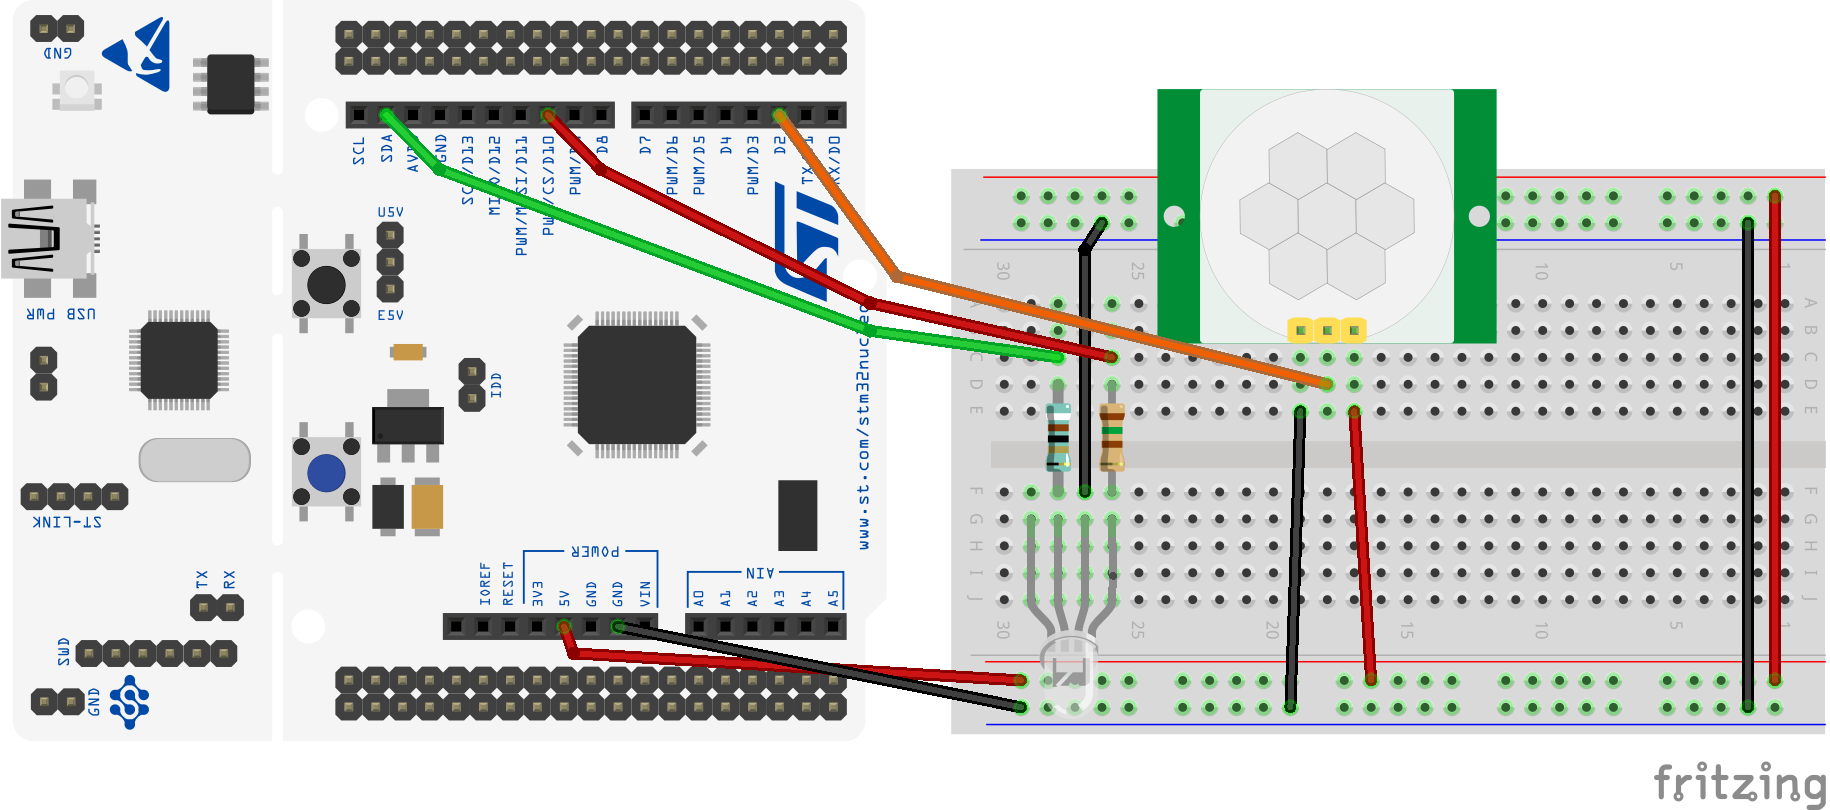
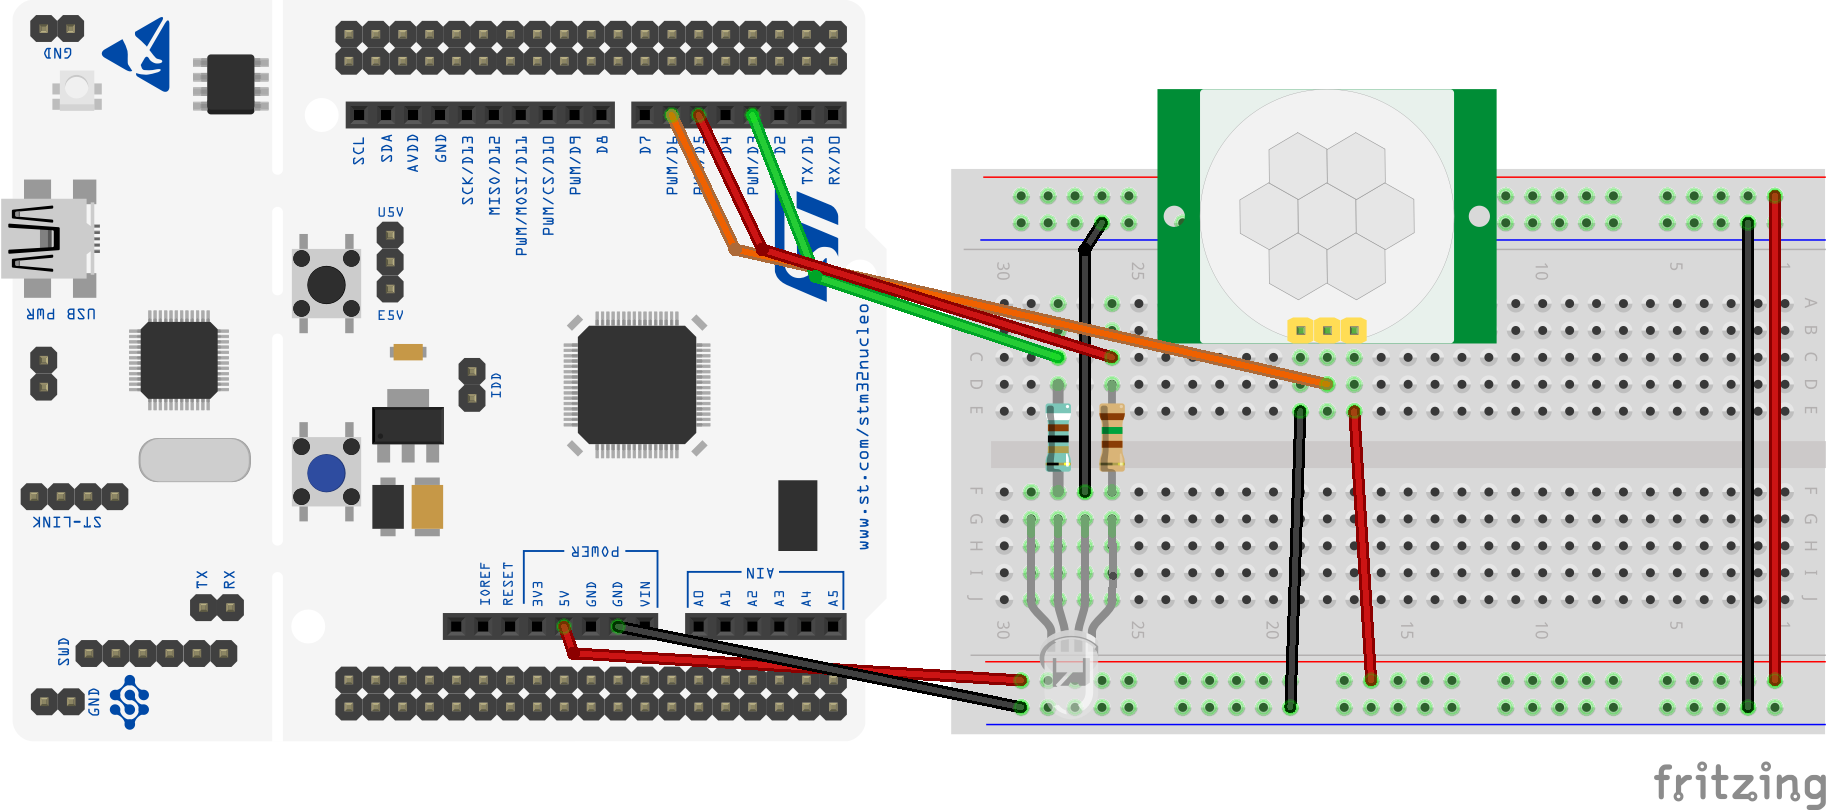
Update LED connections

diff --git a/README.md b/README.md
@@ -10,7 +10,7 @@ El sistema usa una FSM para gestionar los diferentes estados del sistema y el ha
 
 Puede generar tantos detectores de presencia como desee creando una nueva FSM y asignando los identificadores periféricos correspondientes al sistema.
 
-Puede descargar los código fuente de este proyecto en el siguiente [enlace](https://github.com/ieinDieUpm/fsm_automatic_door).
+Puede descargar los código fuente de este proyecto en el siguiente [enlace](https://github.com/ieinDieUpm/fsm_automatic_door/tree/hal_version).
 
 ## Implementación HW
 
@@ -52,30 +52,30 @@ Hay 2 LEDs para indicar el estado del sistema. Un **LED verde** (`led_opening`) 
 
 Ambos LEDs parpadean con un intervalo de interrupción diferente. Cada uno es controlado por un temporizador diferente para generar interrupciones.
 
-| Parameter     | Value               |
-| ------------- | ------------------- |
-| Variable name | led_opening         |
-| Pin           | PB6 (D10 on Nucleo) |
-| Mode          | Output              |
-| Pull up/ down | No push no pull     |
-| Timer         | TIM3                |
-| Interrupt     | TIM3_IRQHandler()   |
-| Time interval | 500 ms              |
-| Priority      | 2                   |
-| Subpriority   | 0                   |
+| Parameter     | Value              |
+| ------------- | ------------------ |
+| Variable name | led_opening        |
+| Pin           | PB3 (D3 on Nucleo) |
+| Mode          | Output             |
+| Pull up/ down | No push no pull    |
+| Timer         | TIM3               |
+| Interrupt     | TIM3_IRQHandler()  |
+| Time interval | 500 ms             |
+| Priority      | 2                  |
+| Subpriority   | 0                  |
 
 
-| Parameter     | Value               |
-| ------------- | ------------------- |
-| Variable name | led_closing         |
-| Pin           | PB9 (D14 on Nucleo) |
-| Mode          | Output              |
-| Pull up/ down | No push no pull     |
-| Timer         | TIM4                |
-| Interrupt     | TIM4_IRQHandler()   |
-| Time interval | 100 ms              |
-| Priority      | 2                   |
-| Subpriority   | 0                   |
+| Parameter     | Value              |
+| ------------- | ------------------ |
+| Variable name | led_closing        |
+| Pin           | PB4 (D5 on Nucleo) |
+| Mode          | Output             |
+| Pull up/ down | No push no pull    |
+| Timer         | TIM4               |
+| Interrupt     | TIM4_IRQHandler()  |
+| Time interval | 100 ms             |
+| Priority      | 2                  |
+| Subpriority   | 0                  |
 
 ### Motor
 
